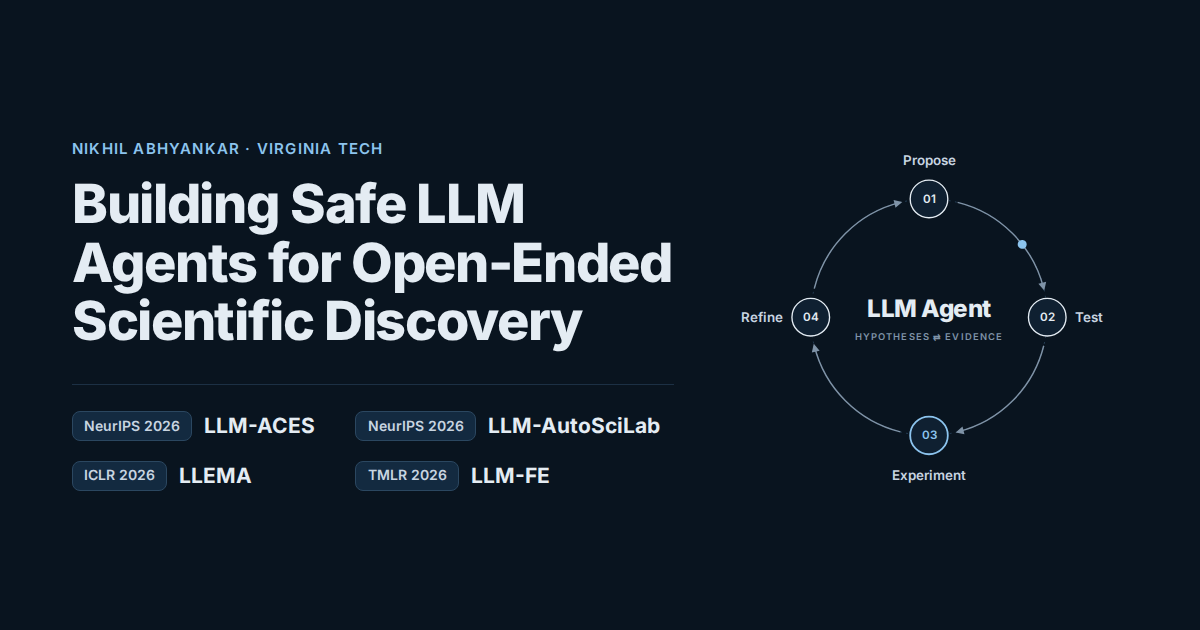
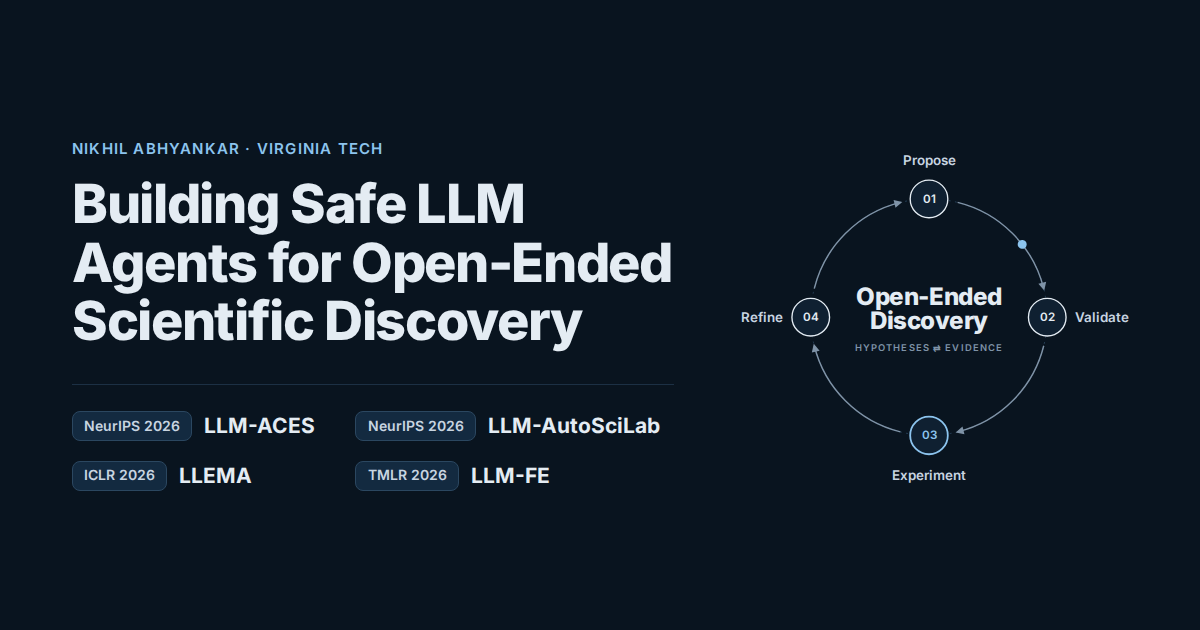
Rename to The Scientific Discovery Process; Validate step; new hero description; drop Projects heading

Changed region(s): [[0.7092, 0.4524, 0.8325, 0.573], [0.8942, 0.4825, 0.9558, 0.5127]]

diff --git a/index.html b/index.html
@@ -84,7 +84,7 @@
       <span class="brand__name">Scientific Discovery</span>
     </a>
     <nav class="nav__links" aria-label="Sections">
-      <a href="#loop">The Loop</a>
+      <a href="#process">Process</a>
       <a href="#projects">Projects</a>
       <a href="#about">About</a>
     </nav>
@@ -108,7 +108,7 @@
       <div class="hero__text">
         <p class="eyebrow">Nikhil Abhyankar · Virginia Tech</p>
         <h1 id="hero-title">Building Safe LLM Agents for Open-Ended Scientific Discovery</h1>
-        <p class="lede">Language models can propose hypotheses far faster than any lab can test them. We build agents that ground every proposal in domain knowledge, test it against real evidence, and run the next experiment when the data cannot yet tell competing hypotheses apart.</p>
+        <p class="lede">LLMs possess scientific domain knowledge that can be leveraged to help scientists speed up the discovery process. We build agents that ground every proposal in this knowledge, validate it against real evidence, and run the next experiment when the data cannot yet tell competing hypotheses apart.</p>
         <a class="btn btn--dark" href="#projects">Explore the projects<svg aria-hidden="true"><use href="#i-down"/></svg></a>
       </div>
 
@@ -148,18 +148,18 @@
     </div>
   </section>
 
-  <!-- ============ The discovery loop ============ -->
-  <section class="section section--alt" id="loop" aria-labelledby="loop-title">
+  <!-- ============ The scientific discovery process ============ -->
+  <section class="section section--alt" id="process" aria-labelledby="process-title">
     <div class="wrap">
       <div class="section-head">
-        <h2 id="loop-title">The Discovery Loop</h2>
-        <p class="section-lede">All four projects follow the same loop. An LLM proposes candidate hypotheses, each one is tested against evidence, and the results refine its belief for the next round. LLM-FE and LLEMA run steps 01, 02 and 04 as an evolutionary search. LLM-ACES and LLM-AutoSciLab add step 03, so the agent also chooses which experiment to run next.</p>
+        <h2 id="process-title">The Scientific Discovery Process</h2>
+        <p class="section-lede">All four projects follow the same process. An LLM proposes candidate hypotheses, each one is validated against evidence, and the results refine its belief for the next round. LLM-FE and LLEMA run steps 01, 02 and 04 as an evolutionary search. LLM-ACES and LLM-AutoSciLab add step 03, so the agent also chooses which experiment to run next.</p>
       </div>
 
       <div class="loop">
         <figure class="loop__diagram">
           <svg viewBox="0 0 480 396" role="img" aria-labelledby="loop-svg-title">
-            <title id="loop-svg-title">The discovery loop: propose, test, experiment, refine, and back to propose.</title>
+            <title id="loop-svg-title">The scientific discovery process: propose, validate, experiment, refine, and back to propose.</title>
             <defs>
               <marker id="loop-arrow" viewBox="0 0 10 10" refX="7" refY="5" markerWidth="7" markerHeight="7" orient="auto">
                 <path class="loop-arrowhead" d="M1 1 9 5 1 9Z"/>
@@ -176,11 +176,12 @@
             <g class="loop-node loop-node--accent"><circle cx="240" cy="332" r="21"/><text x="240" y="332">03</text></g>
             <g class="loop-node"><circle cx="108" cy="200" r="21"/><text x="108" y="200">04</text></g>
             <text class="loop-label" x="240" y="30" text-anchor="middle">Propose</text>
-            <text class="loop-label" x="403" y="205" text-anchor="start">Test</text>
+            <text class="loop-label" x="403" y="205" text-anchor="start">Validate</text>
             <text class="loop-label" x="240" y="382" text-anchor="middle">Experiment</text>
             <text class="loop-label" x="77" y="205" text-anchor="end">Refine</text>
-            <text class="loop-center" x="240" y="200">LLM Agent</text>
-            <text class="loop-center-sub" x="240" y="226">hypotheses ⇄ evidence</text>
+            <text class="loop-center" x="240" y="186">Open-Ended</text>
+            <text class="loop-center" x="240" y="213">Discovery</text>
+            <text class="loop-center-sub" x="240" y="238">hypotheses ⇄ evidence</text>
           </svg>
         </figure>
 
@@ -192,7 +193,7 @@
           </li>
           <li class="step">
             <p class="step__num">02</p>
-            <h3>Test against evidence</h3>
+            <h3>Validate against evidence</h3>
             <p>Every proposal is executed, fitted and scored on data, simulators or property oracles. Nothing is accepted on the model’s word.</p>
           </li>
           <li class="step step--accent">
@@ -211,12 +212,8 @@
   </section>
 
   <!-- ============ Projects ============ -->
-  <section class="section" id="projects" aria-labelledby="projects-title">
+  <section class="section" id="projects" aria-label="Projects">
     <div class="wrap">
-      <div class="section-head">
-        <h2 id="projects-title">Projects</h2>
-        <p class="section-note">Click a figure to enlarge it.</p>
-      </div>
 
       <div class="cards">
 

diff --git a/static/css/main.css b/static/css/main.css
@@ -345,11 +345,6 @@ h1, h2, h3 { margin: 0; text-wrap: balance; }
   line-height: 1.75;
   color: var(--text-secondary);
 }
-.section-note {
-  margin-top: 0.6rem;
-  font-size: 0.95rem;
-  color: var(--text-secondary);
-}
 
 /* ---------- The loop ---------- */
 .loop {
